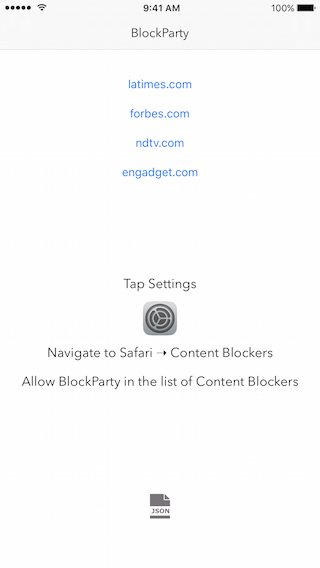
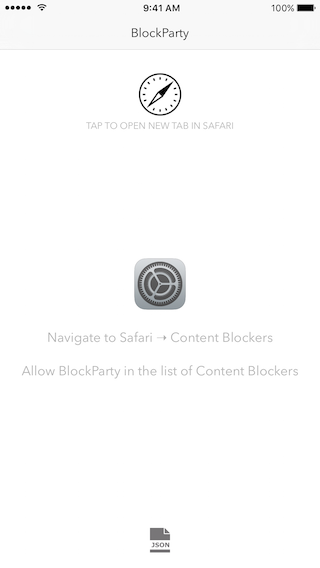
Cleaner UI
- removed site links
- new tab in safari shortcut added
- fixed storyboard issues
- updated blocker rules
- updated README

diff --git a/BlockParty/ViewController.m b/BlockParty/ViewController.m
@@ -15,13 +15,9 @@
 - (IBAction)jsonTapped:(id)sender;
 
 - (IBAction)settingsTapped:(id)sender;
-- (IBAction)site1Tapped:(id)sender;
-- (IBAction)site2Tapped:(id)sender;
-- (IBAction)site3Tapped:(id)sender;
-- (IBAction)site4Tapped:(id)sender;
-@property (strong, nonatomic) IBOutlet UILabel *instructionLabel;
 @property (strong, nonatomic) IBOutlet UILabel *instructionLabel2;
 @property (strong, nonatomic) IBOutlet UILabel *instructionLabel3;
+- (IBAction)browserTapped:(id)sender;
 
 @end
 
@@ -40,7 +36,6 @@
                                                                 NSFontAttributeName,
                                                                 nil]];
     if (IS_IPHONE_4 || IS_IPHONE_5) {
-        self.instructionLabel.font = [UIFont fontWithName:@"Avenir Next" size:14];
         self.instructionLabel2.font = [UIFont fontWithName:@"Avenir Next" size:14];
         self.instructionLabel3.font = [UIFont fontWithName:@"Avenir Next" size:14];
     }
@@ -65,21 +60,10 @@
     [[UIApplication sharedApplication] openURL:[NSURL URLWithString: UIApplicationOpenSettingsURLString]];
 }
 
-- (IBAction)site1Tapped:(id)sender {
-    [[UIApplication sharedApplication] openURL:[NSURL URLWithString: @"http://www.latimes.com"]];
+
+- (IBAction)browserTapped:(id)sender {
+
+    [[UIApplication sharedApplication] openURL:[NSURL URLWithString:@"http://about:blank"]];
+    
 }
-
-- (IBAction)site2Tapped:(id)sender {
-    [[UIApplication sharedApplication] openURL:[NSURL URLWithString: @"http://www.forbes.com"]];
-}
-
-- (IBAction)site3Tapped:(id)sender {
-    [[UIApplication sharedApplication] openURL:[NSURL URLWithString: @"http://www.ndtv.com"]];
-}
-
-- (IBAction)site4Tapped:(id)sender {
-    [[UIApplication sharedApplication] openURL:[NSURL URLWithString: @"http://www.engadget.com"]];
-}
-
-
 @end

diff --git a/README.md b/README.md
@@ -8,7 +8,7 @@ Safari Content Blocker App for iOS 9 and OSX
 ![Screen2](Screenshot02.png)
 ![Screen3](Screenshot03.png)
 
-- Currently blocks content from annoying ad networks on all sites thereby loading pages super fast
+- Currently blocks content from annoying ad networks thereby loading pages super fast
 
 - Useful for data-capped, international roaming connections
 
@@ -35,9 +35,3 @@ The exceptions to this are iPhone 5 and iPhone 5C which have been tested to be w
 * Instructions to install desktop version: [How to Use BlockParty for Desktop Safari](https://github.com/krishkumar/BlockParty/blob/master/BlockParty%20-%20Desktop%20Safari/How%20to%20Install.md)
 * WWDC 2015 Session 511: [Safari Extensibility: Content Blocking and Shared Links](https://developer.apple.com/videos/wwdc/2015/?id=511)
 * Introduction to WebKit Content Blockers: [Introduction & JSON Syntax](https://www.webkit.org/blog/3476/content-blockers-first-look/)
-
-
-## TODO
-
-- Pause Blocker
-- Modify, recompile JSON rules in app
